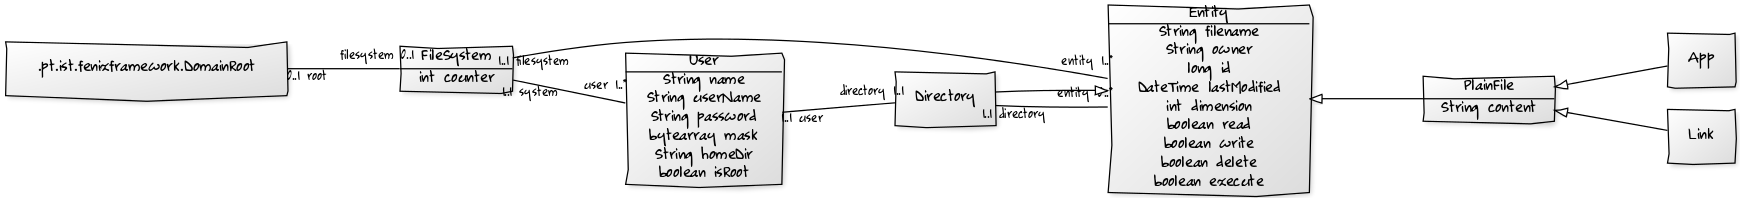
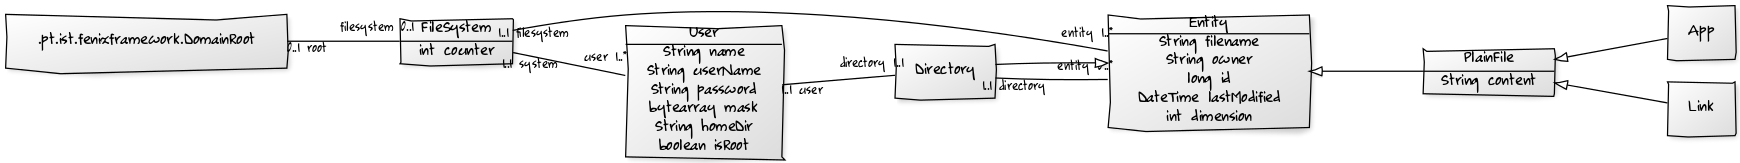
xau booleanos

diff --git a/src/main/java/pt/tecnico/myDrive/domain/User.java b/src/main/java/pt/tecnico/myDrive/domain/User.java
@@ -66,7 +66,7 @@ public class User extends User_Base {
     }
     
     public Directory addDir(User user, FileSystem filesystem, String filename, String owner, long id, DateTime lastModified, int dimension, boolean read, boolean write, boolean delete, boolean execute, Directory father){
-    	Directory dir = new Directory(user,filesystem,filename,owner,id,lastModified,dimension,read,write,delete,execute, father);
+    	Directory dir = new Directory(user,filesystem,filename,owner,id,lastModified,dimension,father);
     	dirs.add(dir);
     	return dir;
     }

diff --git a/src/main/java/pt/tecnico/myDrive/domain/Directory.java b/src/main/java/pt/tecnico/myDrive/domain/Directory.java
@@ -13,7 +13,7 @@ public class Directory extends Directory_Base {
 	public ArrayList<Entity> files = new ArrayList<Entity>();
 	
 	
-    public Directory(User user, FileSystem filesystem, String filename, String owner, long id, DateTime lastModified, int dimension, boolean read, boolean write, boolean delete, boolean execute, Directory father) {
+    public Directory(User user, FileSystem filesystem, String filename, String owner, long id, DateTime lastModified, int dimension, Directory father) {
         super();
         setUser(user);
     }

diff --git a/src/main/java/pt/tecnico/myDrive/domain/FileSystem.java b/src/main/java/pt/tecnico/myDrive/domain/FileSystem.java
@@ -140,7 +140,7 @@ public class FileSystem extends FileSystem_Base {
     		//adicionar home directory e a diretoria raiz
     		setCounter(getCounter()+1);
     		//precisa de \\ para reconhecer \ dentro da string
-    		Directory home =	new Directory(user,this, "\\home", "root", getCounter(), date, 2, false, false, false, false, null);
+    		Directory home =	new Directory(user,this, "\\home", "root", getCounter(), date, 2, null);
     		addEntity(home);
     		files.add(home);
     	}

diff --git a/src/main/java/pt/tecnico/myDrive/domain/Entity.java b/src/main/java/pt/tecnico/myDrive/domain/Entity.java
@@ -15,10 +15,6 @@ public class Entity extends Entity_Base {
         setId(id);
         setLastModified(lastModified);
         setDimension(dimension);
-        setRead(read);
-        setWrite(write);
-        setDelete(delete);
-        setExecute(execute);
         setFilesystem(filesystem);
         //FIXME do we need a path? - enunciado
     }
